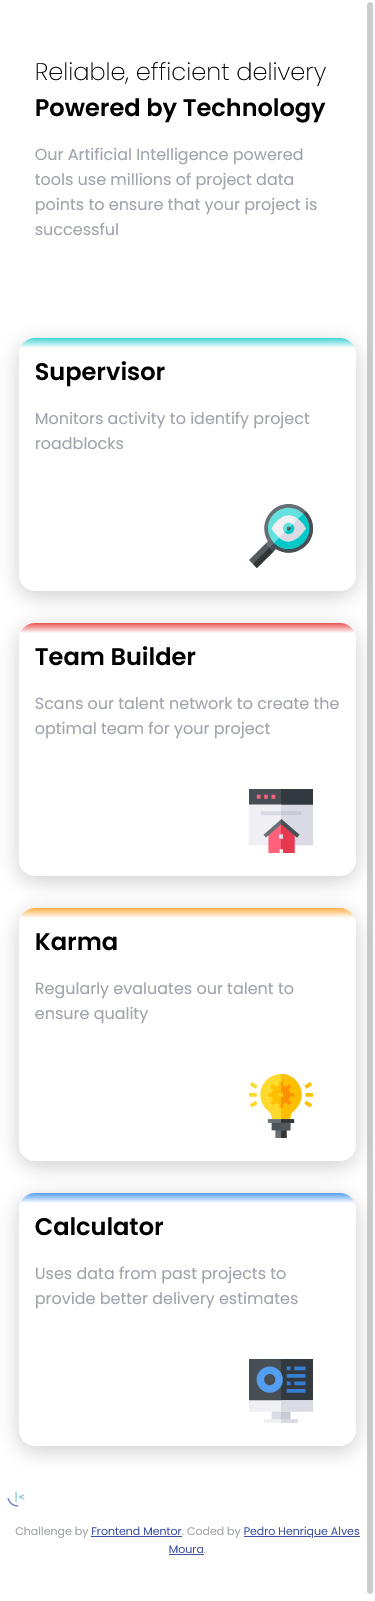
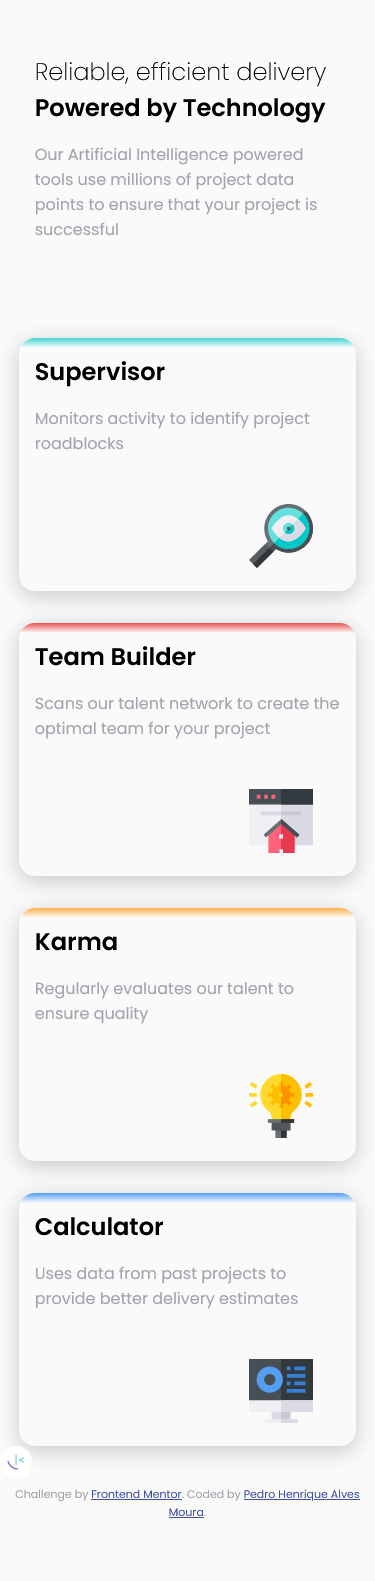
Four card feature section

diff --git a/four-card-feature-section-master/.history/css/style_20210601133754.css b/four-card-feature-section-master/.history/css/style_20210601133754.css
@@ -11,7 +11,7 @@
     }
 
     body {
-        background-color: hsl(0, 0%, 98%);
+        background-color: rgb(135, 13, 13): hsl(0, 0%, 98%);
     }
 
 
@@ -20,6 +20,7 @@
 ** Common Format
 */
     #wrapper {
+        background-color: rgb(135, 13, 13): hsl(0, 0%, 98%);
         display: grid;
         grid-template-rows: repeat(auto-fit, minmax(210px, 1fr));
         margin: 10% auto;

diff --git a/four-card-feature-section-master/.history/css/style_20210601133805.css b/four-card-feature-section-master/.history/css/style_20210601133805.css
@@ -11,7 +11,7 @@
     }
 
     body {
-        background-color: hsl(0, 0%, 98%);
+        background-color: rgb(135, 13, 13): hsl(0, 0%, 98%);
     }
 
 
@@ -20,6 +20,7 @@
 ** Common Format
 */
     #wrapper {
+        background-color: rgb(135, 13, 13);
         display: grid;
         grid-template-rows: repeat(auto-fit, minmax(210px, 1fr));
         margin: 10% auto;

diff --git a/four-card-feature-section-master/.history/css/style_20210601134022.css b/four-card-feature-section-master/.history/css/style_20210601134022.css
@@ -11,7 +11,7 @@
     }
 
     body {
-        background-color: hsl(0, 0%, 98%);
+        background-color: hsl(0, 0%, 100%);
     }
 
 
@@ -20,6 +20,7 @@
 ** Common Format
 */
     #wrapper {
+        background-color: hsl(0, 0%, 98%);
         display: grid;
         grid-template-rows: repeat(auto-fit, minmax(210px, 1fr));
         margin: 10% auto;

diff --git a/four-card-feature-section-master/.history/css/style_20210601133612.css b/four-card-feature-section-master/.history/css/style_20210601133612.css
@@ -11,7 +11,7 @@
     }
 
     body {
-        background-color: hsl(0, 0%, 98%);
+        background-color: rgb(169, 23, 23): hsl(0, 0%, 98%);
     }
 
 
@@ -63,7 +63,7 @@
     }
 
     footer {
-        margin-top: -10%;
+        margin-top: -150px;
     }
 
     /*

diff --git a/four-card-feature-section-master/.history/css/style_20210601133549.css b/four-card-feature-section-master/.history/css/style_20210601133549.css
@@ -11,7 +11,7 @@
     }
 
     body {
-        background-color: hsl(0, 0%, 98%);
+        background-color: Very Light Gray: hsl(0, 0%, 98%);
     }
 
 
@@ -63,7 +63,7 @@
     }
 
     footer {
-        margin-top: -10%;
+        margin-top: -150px;
     }
 
     /*

diff --git a/four-card-feature-section-master/.history/css/style_20210601133558.css b/four-card-feature-section-master/.history/css/style_20210601133558.css
@@ -11,7 +11,7 @@
     }
 
     body {
-        background-color: hsl(0, 0%, 98%);
+        background-color: Gray: hsl(0, 0%, 98%);
     }
 
 
@@ -63,7 +63,7 @@
     }
 
     footer {
-        margin-top: -10%;
+        margin-top: -150px;
     }
 
     /*

diff --git a/four-card-feature-section-master/.history/css/style_20210601133616.css b/four-card-feature-section-master/.history/css/style_20210601133616.css
@@ -11,7 +11,7 @@
     }
 
     body {
-        background-color: hsl(0, 0%, 98%);
+        background-color: Gray: hsl(0, 0%, 98%);
     }
 
 
@@ -63,7 +63,7 @@
     }
 
     footer {
-        margin-top: -10%;
+        margin-top: -150px;
     }
 
     /*

diff --git a/four-card-feature-section-master/.history/css/style_20210601133642.css b/four-card-feature-section-master/.history/css/style_20210601133642.css
@@ -11,7 +11,7 @@
     }
 
     body {
-        background-color: hsl(0, 0%, 98%);
+        background-color: Gray: hsl(0, 0%, 98%);
     }
 
 
@@ -63,7 +63,7 @@
     }
 
     footer {
-        margin-top: -10%;
+        margin-top: 10vhpx;
     }
 
     /*

diff --git a/four-card-feature-section-master/.history/css/style_20210601133651.css b/four-card-feature-section-master/.history/css/style_20210601133651.css
@@ -11,7 +11,7 @@
     }
 
     body {
-        background-color: hsl(0, 0%, 98%);
+        background-color: Gray: hsl(0, 0%, 98%);
     }
 
 
@@ -63,7 +63,7 @@
     }
 
     footer {
-        margin-top: -10%;
+        margin-top: -10vh;
     }
 
     /*

diff --git a/four-card-feature-section-master/.history/css/style_20210601133644.css b/four-card-feature-section-master/.history/css/style_20210601133644.css
@@ -11,7 +11,7 @@
     }
 
     body {
-        background-color: hsl(0, 0%, 98%);
+        background-color: Gray: hsl(0, 0%, 98%);
     }
 
 
@@ -63,7 +63,7 @@
     }
 
     footer {
-        margin-top: -10%;
+        margin-top: 10vh;
     }
 
     /*

diff --git a/four-card-feature-section-master/.history/css/style_20210601133656.css b/four-card-feature-section-master/.history/css/style_20210601133656.css
@@ -11,7 +11,7 @@
     }
 
     body {
-        background-color: hsl(0, 0%, 98%);
+        background-color: Gray: hsl(0, 0%, 98%);
     }
 
 
@@ -63,7 +63,7 @@
     }
 
     footer {
-        margin-top: -10%;
+        margin-top: -8vh;
     }
 
     /*

diff --git a/four-card-feature-section-master/.history/css/style_20210601133713.css b/four-card-feature-section-master/.history/css/style_20210601133713.css
@@ -11,7 +11,7 @@
     }
 
     body {
-        background-color: hsl(0, 0%, 98%);
+        background-color: Gray: hsl(0, 0%, 98%);
     }
 
 
@@ -63,7 +63,7 @@
     }
 
     footer {
-        margin-top: -10%;
+        margin-top: -8%;
     }
 
     /*
